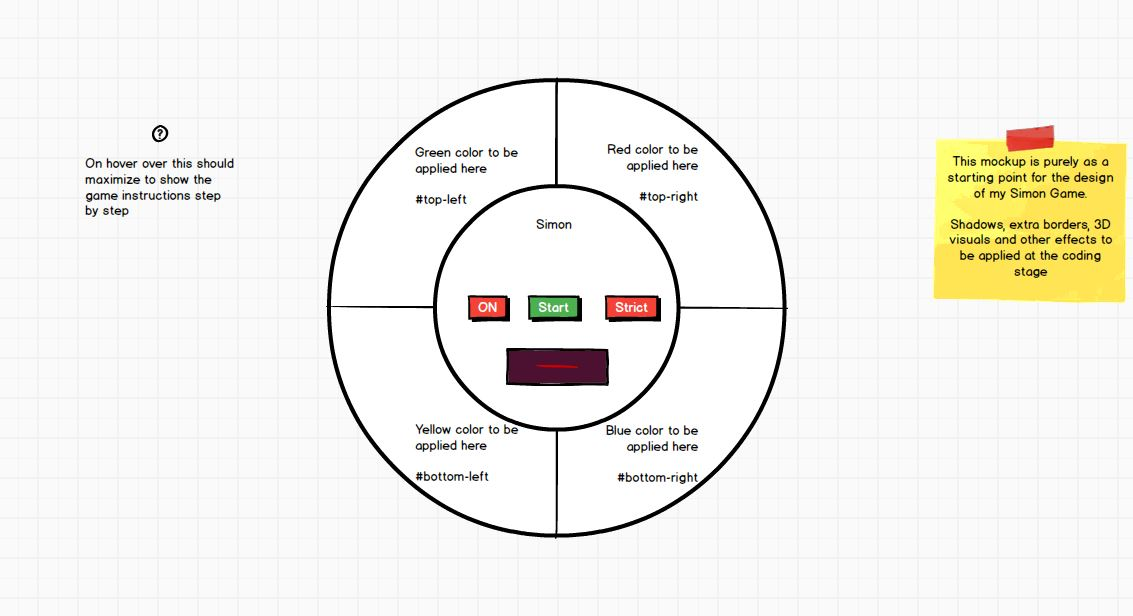
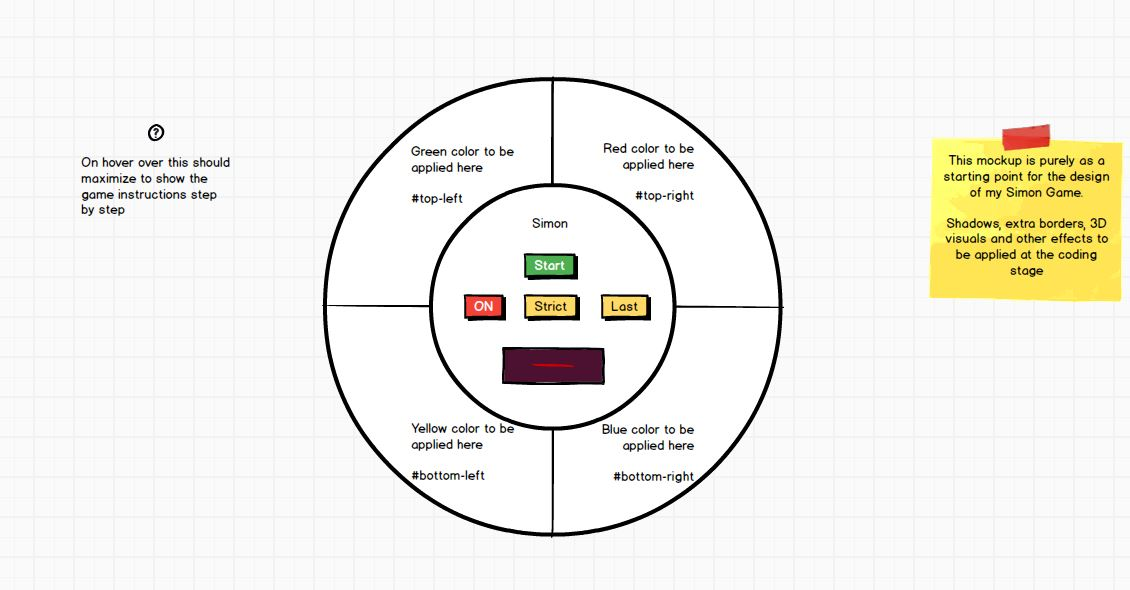
Project Commit

diff --git a/README.md b/README.md
@@ -1,0 +1,36 @@
+# SIMON GAME
+I have decided to create the Simon Game for my second project, were I can use the skills I have learned and implement the knowledge I have gained so far.
+Based on the classic physical game, I have created an online version of it with the help of HTML, CSS, Bootstrap and JavaScript, making it interactive and very enjoyable to play. With its design close to the physical and original game, enhances the user experience attracting more players by being accessible on the web to a larger audience.
+
+#### ABOUT THE GAME
+The device has four coloured buttons, each producing a particular tone when it is pressed or activated by the device. A round in the game consists of the device lighting up one or more buttons in a random order, after which the player must reproduce that order by pressing the buttons. As the game progresses, the number of buttons to be pressed increases. [Read more](https://en.wikipedia.org/wiki/Simon_(game)#Gameplay).
+
+## UX
+Prior to coding the game, I made some mockups so I can see what design, style, layout to use, in order to enhance the UX. These wireframes are attached to my Github repository so they can easily be view and accessed easily. 
+The game itself has a short instructions button and is structured into five functional sections, each playing an important part of the game. We have a middle section focusing on all the commands allowing the player to turn on the game,  start it, activate the strict mode, being able to see on a small display the games messages like the round number, if the player has pressed the wrong sequence or if he had win the game.
+Being an online version of the popular game Simon and making in accessible to a larger audience, the purpose of this was indeed to reach out to more players. As so many things these days are online based, creating this game for the online communities makes it easier to access and play whenever the user wishes.
+
+## FEATURES
+*	GAME FUNCTIONALITY - Firstly, I have defined the variables that I would be using for this project. All of them have been used in my code to make the game work.
+Having the first step done, I have started to create functions in the relevant order as a user would start to play the game and this would be, by turning the game ON for the game to power-up, implementing a STRICT mode that the user can activate, increasing the level of difficulty, or deactivate it to play in a normal level of difficulty, pressing the START button for the game to start with round one.  With a function of LAST, the game help out the player by repeating the last sequence of colours that lit so he can see the sequence again.
+
+*	THE FUNCTIONS
+The ```function play()``` starts the game by the computer having the first turn, lighting-up the first colour of the four randomly through the ```order.push(Math.random() * 4``` to which an extra colour will be added randomly for every round.
+The ```gameTurn()``` has been created to help with the games functionality defining the four flashes distancing them apart by s time interval.
+The functions ```one(), two(), three(), four()``` have been coded to pull the sounds and coluor change for each specific round, for the player to see what he needs to replicate in movements. Once the game has made its moves the colour would clear to their defaults.
+Adding the ```addEventListeners``` method for each section of the game had to be implemented to help with the games functionality. As well as ```check()``` function, which checks if the player has pressed the colours in the same sequence as the game showed them. If it is true, than the game proceeds to the next round. If it`s not true, the game repeats the last sequence. If the strict mode is on and the player presses the wrong colour, the game will start from the beginning without repeating the last sequence.
+Reaching the last round, through the ```winGame()``` function, the game checks if all the rounds have been completed successfully. If it has than a message of “WIN!!!” will display on the small screen of the game to inform the player he has completed the last round and won the game.
+####	Features left to implement
+As another feature idea left to be implemented I thought about a “LAST” button, where per example the player reaching Level 5 he wants to see again the sequence of that Level before inputting his, simply by pressing the “LAST” button  the game will do just that.
+
+## TECHNOLOGIES USED
+I have started this project with a few mockups made in the popular and easy to use wireframe *Balsamiq Mockups 3*. After deciding which mockup I will go with I have started with building the structure of the game in **HTML** step by step and section by section. Applying styles to the game`s structure through **CSS** makes the game livelier giving it a shape and a form and getting it ready to go through its functionality development. For this I have used **JavaScript**, creating all the variables and functions for the game to work flawlessly. For making the game responsive on different platforms I reached out using **Bootstrap**. 
+
+## TESTING
+The game has regularly been tested after each function to make sure it works in perfect order. Some functions had to be re-written to make the code work better without any errors. After finishing coding, I have tested it on different platforms like two laptops, two desktops, an iPhone, a Samsung mobile phone and two iPads as well as having it tested by a few colleagues through Slack main channel and private messages. Testing has completed successfully returning a fully working rate of 100%, from all people. As well as physical testing and check, I have also tested and checked it through Google Chrome Developer Tools returning no error and working perfectly fine.
+All the main buttons working in perfect order, with all their settings applied to, all four “colour” buttons changing their colours when their turn is up like they should. The rule applied to the strict button works fine and the game acts to it by restarting itself when the player gets the order wrong. Having completed the game, the winning message appears in the right parameters of the small display.
+The game is fully responsive on different platforms and all testing complete resulting in 100% functionality.
+Apart from typing errors from my behalf, I have not had any bugs in the system.
+
+## DEPLOYMENT
+Having the possibility to work on the project freely and with my own preferred APIs, I have chosen to upload all my files to my GitHub through the normal “browser upload” method. I find it easier and quick, being more production having more time to concentrate on the actual coding. The live website is also hosted on Git and can be accessed by clicking [here](https://stanciudorin.github.io/Simon-Game/).
